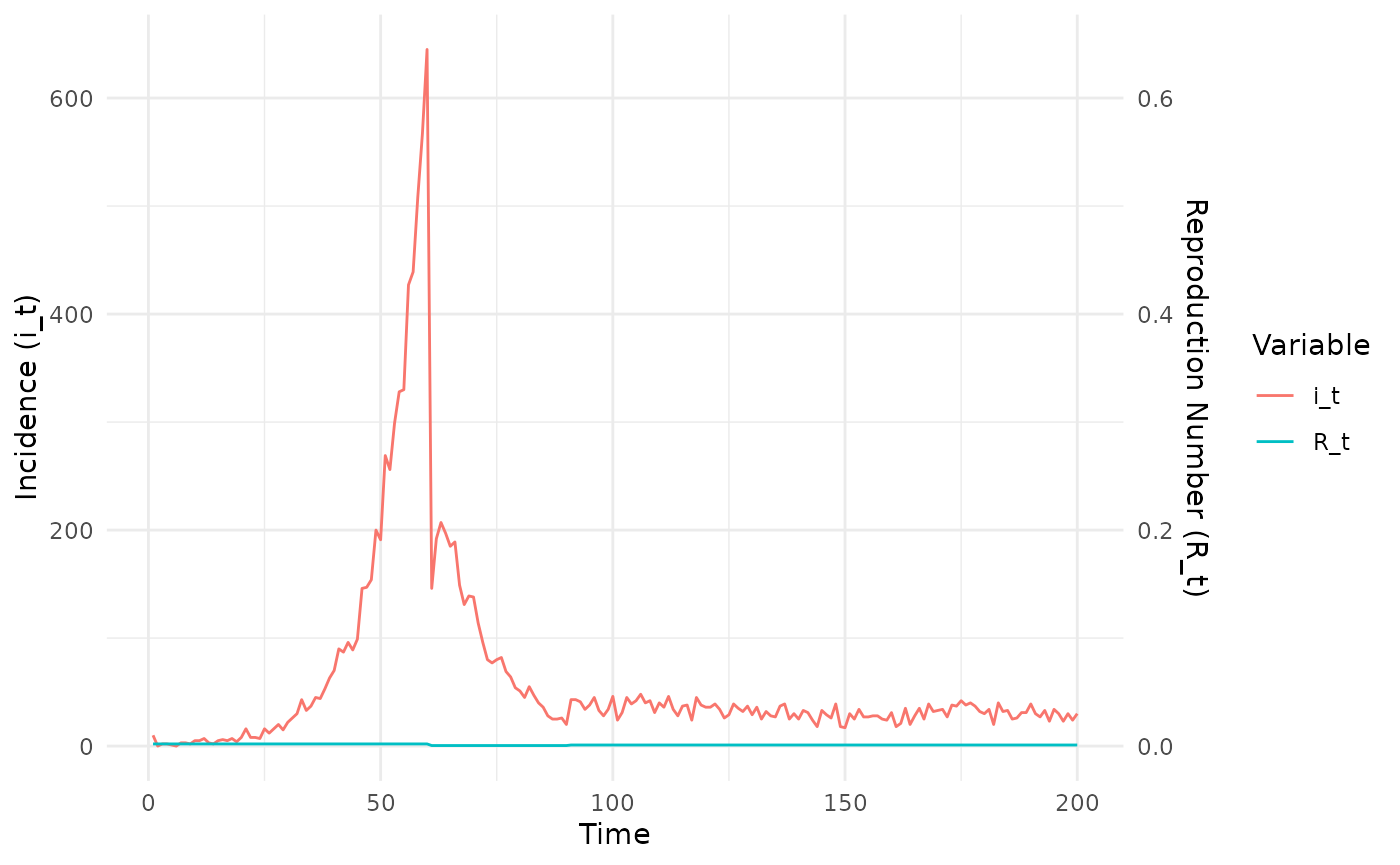
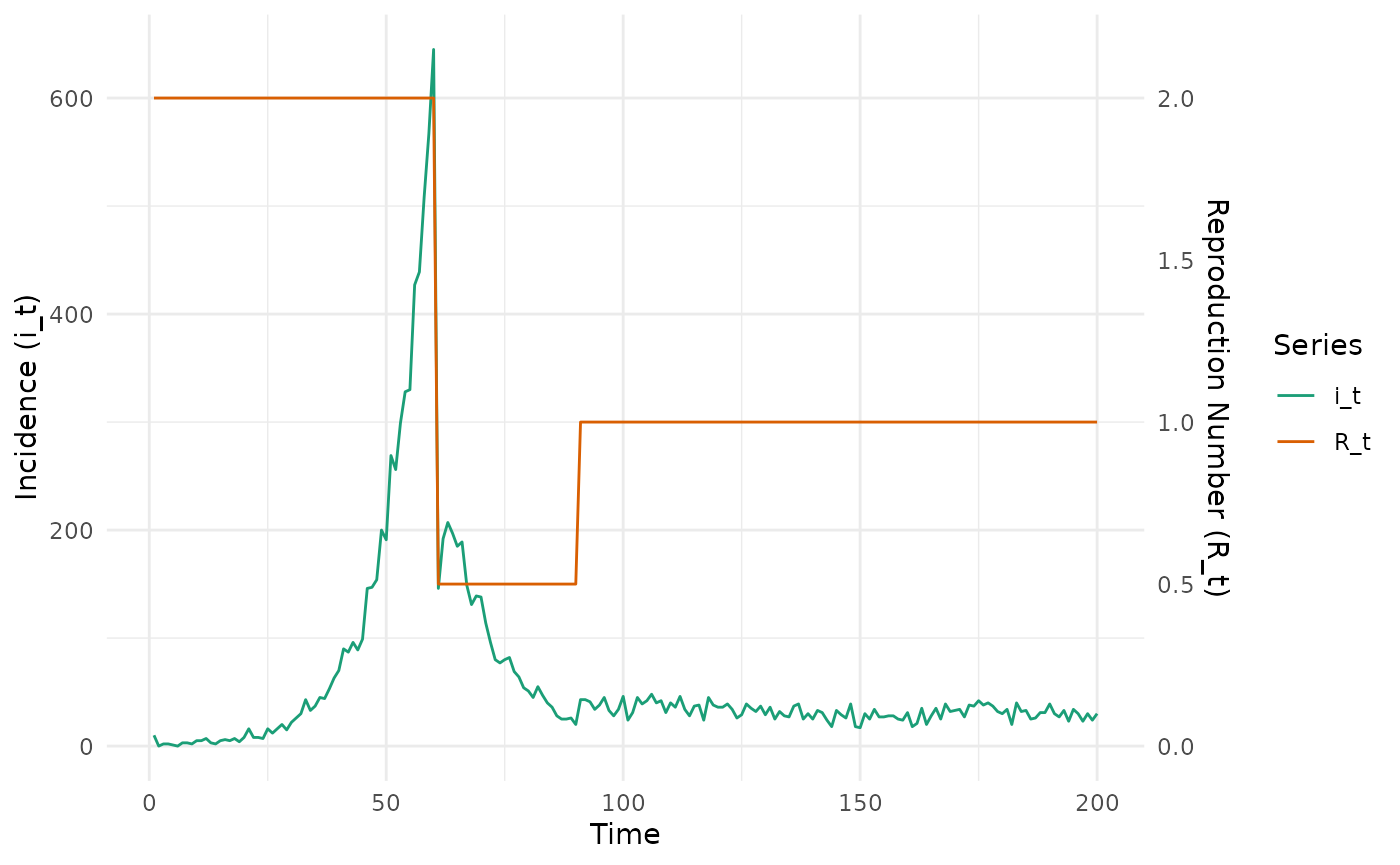
Deploying to gh-pages from @ ben18785/epidp@739d54ecd27106d98d93bf1763fed910df21669f 🚀

diff --git a/articles/fitting_synthetic_data_using_epidp.html b/articles/fitting_synthetic_data_using_epidp.html
@@ -125,17 +125,20 @@ I_t \sim \text{Poisson}(R_t \Lambda_t),
 <span><span class="va">epidemic_df</span> <span class="op">&lt;-</span> <span class="fu"><a href="../reference/simulate_renewal_epidemic.html">simulate_renewal_epidemic</a></span><span class="op">(</span><span class="va">rt_fun</span>, <span class="va">nt</span>, <span class="va">mean_si</span>, <span class="va">sd_si</span>, <span class="va">i_0</span><span class="op">)</span></span>
 <span></span>
 <span><span class="co"># plot</span></span>
+<span><span class="va">transform_factor</span> <span class="op">&lt;-</span> <span class="fl">300</span></span>
 <span><span class="va">epidemic_df</span> <span class="op"><a href="https://magrittr.tidyverse.org/reference/pipe.html" class="external-link">%&gt;%</a></span></span>
 <span>  <span class="fu"><a href="https://dplyr.tidyverse.org/reference/select.html" class="external-link">select</a></span><span class="op">(</span><span class="op">-</span><span class="fu"><a href="https://rdrr.io/r/base/c.html" class="external-link">c</a></span><span class="op">(</span><span class="va">w_dist</span>, <span class="va">lambda_t</span><span class="op">)</span><span class="op">)</span> <span class="op"><a href="https://magrittr.tidyverse.org/reference/pipe.html" class="external-link">%&gt;%</a></span></span>
+<span>  <span class="fu"><a href="https://dplyr.tidyverse.org/reference/mutate.html" class="external-link">mutate</a></span><span class="op">(</span>R_t <span class="op">=</span> <span class="va">R_t</span> <span class="op">*</span> <span class="va">transform_factor</span><span class="op">)</span> <span class="op"><a href="https://magrittr.tidyverse.org/reference/pipe.html" class="external-link">%&gt;%</a></span> </span>
 <span>  <span class="fu"><a href="https://tidyr.tidyverse.org/reference/pivot_longer.html" class="external-link">pivot_longer</a></span><span class="op">(</span><span class="fu"><a href="https://rdrr.io/r/base/c.html" class="external-link">c</a></span><span class="op">(</span><span class="va">i_t</span>, <span class="va">R_t</span><span class="op">)</span><span class="op">)</span> <span class="op"><a href="https://magrittr.tidyverse.org/reference/pipe.html" class="external-link">%&gt;%</a></span></span>
 <span>  <span class="fu"><a href="https://ggplot2.tidyverse.org/reference/ggplot.html" class="external-link">ggplot</a></span><span class="op">(</span><span class="fu"><a href="https://ggplot2.tidyverse.org/reference/aes.html" class="external-link">aes</a></span><span class="op">(</span>x <span class="op">=</span> <span class="va">t</span>, y <span class="op">=</span> <span class="va">value</span>, colour <span class="op">=</span> <span class="va">name</span><span class="op">)</span><span class="op">)</span> <span class="op">+</span></span>
 <span>  <span class="fu"><a href="https://ggplot2.tidyverse.org/reference/geom_path.html" class="external-link">geom_line</a></span><span class="op">(</span><span class="op">)</span> <span class="op">+</span></span>
 <span>  <span class="fu"><a href="https://ggplot2.tidyverse.org/reference/scale_continuous.html" class="external-link">scale_y_continuous</a></span><span class="op">(</span></span>
 <span>    name <span class="op">=</span> <span class="st">"Incidence (i_t)"</span>,</span>
-<span>    sec.axis <span class="op">=</span> <span class="fu"><a href="https://ggplot2.tidyverse.org/reference/sec_axis.html" class="external-link">sec_axis</a></span><span class="op">(</span><span class="op">~</span> <span class="va">.</span> <span class="op">/</span> <span class="fl">1000</span>, name <span class="op">=</span> <span class="st">"Reproduction Number (R_t)"</span><span class="op">)</span></span>
+<span>    sec.axis <span class="op">=</span> <span class="fu"><a href="https://ggplot2.tidyverse.org/reference/sec_axis.html" class="external-link">sec_axis</a></span><span class="op">(</span><span class="op">~</span> <span class="va">.</span> <span class="op">/</span> <span class="va">transform_factor</span>, name <span class="op">=</span> <span class="st">"Reproduction Number (R_t)"</span><span class="op">)</span></span>
 <span>  <span class="op">)</span> <span class="op">+</span></span>
-<span>  <span class="fu"><a href="https://ggplot2.tidyverse.org/reference/labs.html" class="external-link">labs</a></span><span class="op">(</span>x <span class="op">=</span> <span class="st">"Time"</span>, colour <span class="op">=</span> <span class="st">"Variable"</span><span class="op">)</span> <span class="op">+</span></span>
-<span>  <span class="fu"><a href="https://ggplot2.tidyverse.org/reference/ggtheme.html" class="external-link">theme_minimal</a></span><span class="op">(</span><span class="op">)</span></span></code></pre></div>
+<span>  <span class="fu"><a href="https://ggplot2.tidyverse.org/reference/labs.html" class="external-link">labs</a></span><span class="op">(</span>x <span class="op">=</span> <span class="st">"Time"</span><span class="op">)</span> <span class="op">+</span></span>
+<span>  <span class="fu"><a href="https://ggplot2.tidyverse.org/reference/ggtheme.html" class="external-link">theme_minimal</a></span><span class="op">(</span><span class="op">)</span> <span class="op">+</span></span>
+<span>  <span class="fu"><a href="https://ggplot2.tidyverse.org/reference/scale_brewer.html" class="external-link">scale_color_brewer</a></span><span class="op">(</span><span class="st">"Series"</span>, palette <span class="op">=</span> <span class="st">"Dark2"</span><span class="op">)</span></span></code></pre></div>
 <p><img src="fitting_synthetic_data_using_epidp_files/figure-html/unnamed-chunk-2-1.png" width="700"></p>
 <p>We now use a Stan version of EpiFilter to estimate the maximum a
 posteriori estimates of
@@ -430,7 +433,7 @@ profile.</p>
 <span><span class="co">#&gt; R[199] 2.31    0.01 0.19 1.93 2.18 2.31 2.42  2.71   588 1.00</span></span>
 <span><span class="co">#&gt; R[200] 2.20    0.01 0.20 1.83 2.06 2.19 2.33  2.62   447 0.99</span></span>
 <span><span class="co">#&gt; </span></span>
-<span><span class="co">#&gt; Samples were drawn using NUTS(diag_e) at Mon Aug 12 16:14:55 2024.</span></span>
+<span><span class="co">#&gt; Samples were drawn using NUTS(diag_e) at Mon Aug 12 16:21:59 2024.</span></span>
 <span><span class="co">#&gt; For each parameter, n_eff is a crude measure of effective sample size,</span></span>
 <span><span class="co">#&gt; and Rhat is the potential scale reduction factor on split chains (at </span></span>
 <span><span class="co">#&gt; convergence, Rhat=1).</span></span></code></pre></div>

diff --git a/articles/fitting_synthetic_data_including_covariates.html b/articles/fitting_synthetic_data_including_covariates.html
@@ -368,7 +368,7 @@ profile.</p>
 <span><span class="co">#&gt; R[199] 3.58    0.01 0.28 3.05 3.38 3.57 3.79  4.11   362 1.01</span></span>
 <span><span class="co">#&gt; R[200] 3.83    0.02 0.30 3.33 3.64 3.81 4.02  4.42   344 1.02</span></span>
 <span><span class="co">#&gt; </span></span>
-<span><span class="co">#&gt; Samples were drawn using NUTS(diag_e) at Mon Aug 12 16:14:12 2024.</span></span>
+<span><span class="co">#&gt; Samples were drawn using NUTS(diag_e) at Mon Aug 12 16:21:14 2024.</span></span>
 <span><span class="co">#&gt; For each parameter, n_eff is a crude measure of effective sample size,</span></span>
 <span><span class="co">#&gt; and Rhat is the potential scale reduction factor on split chains (at </span></span>
 <span><span class="co">#&gt; convergence, Rhat=1).</span></span></code></pre></div>
